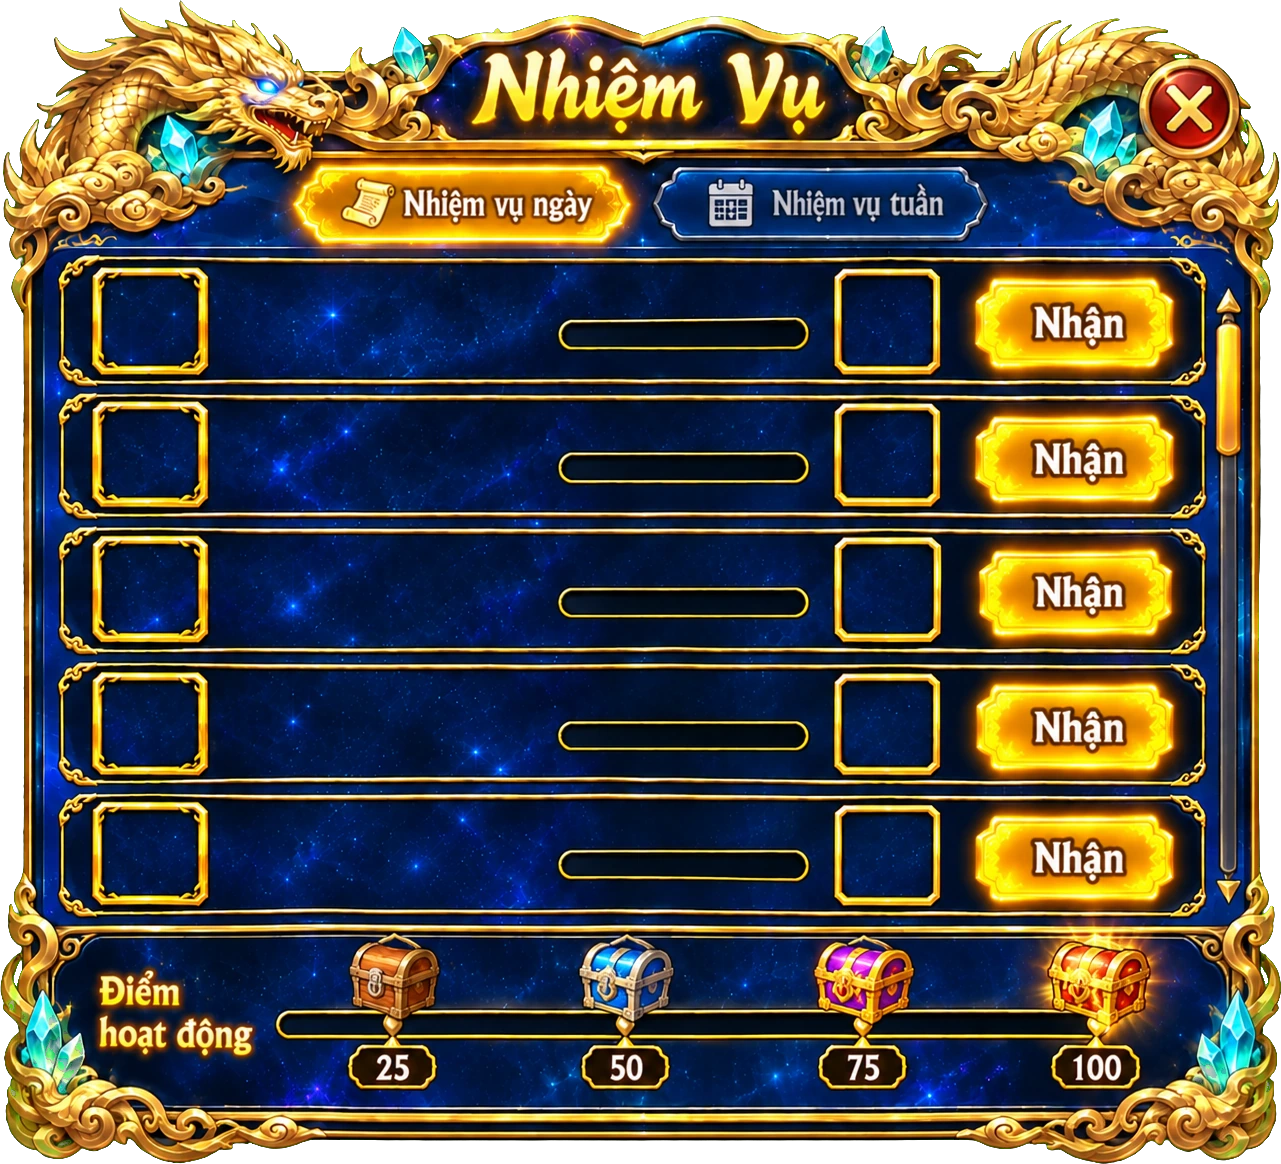
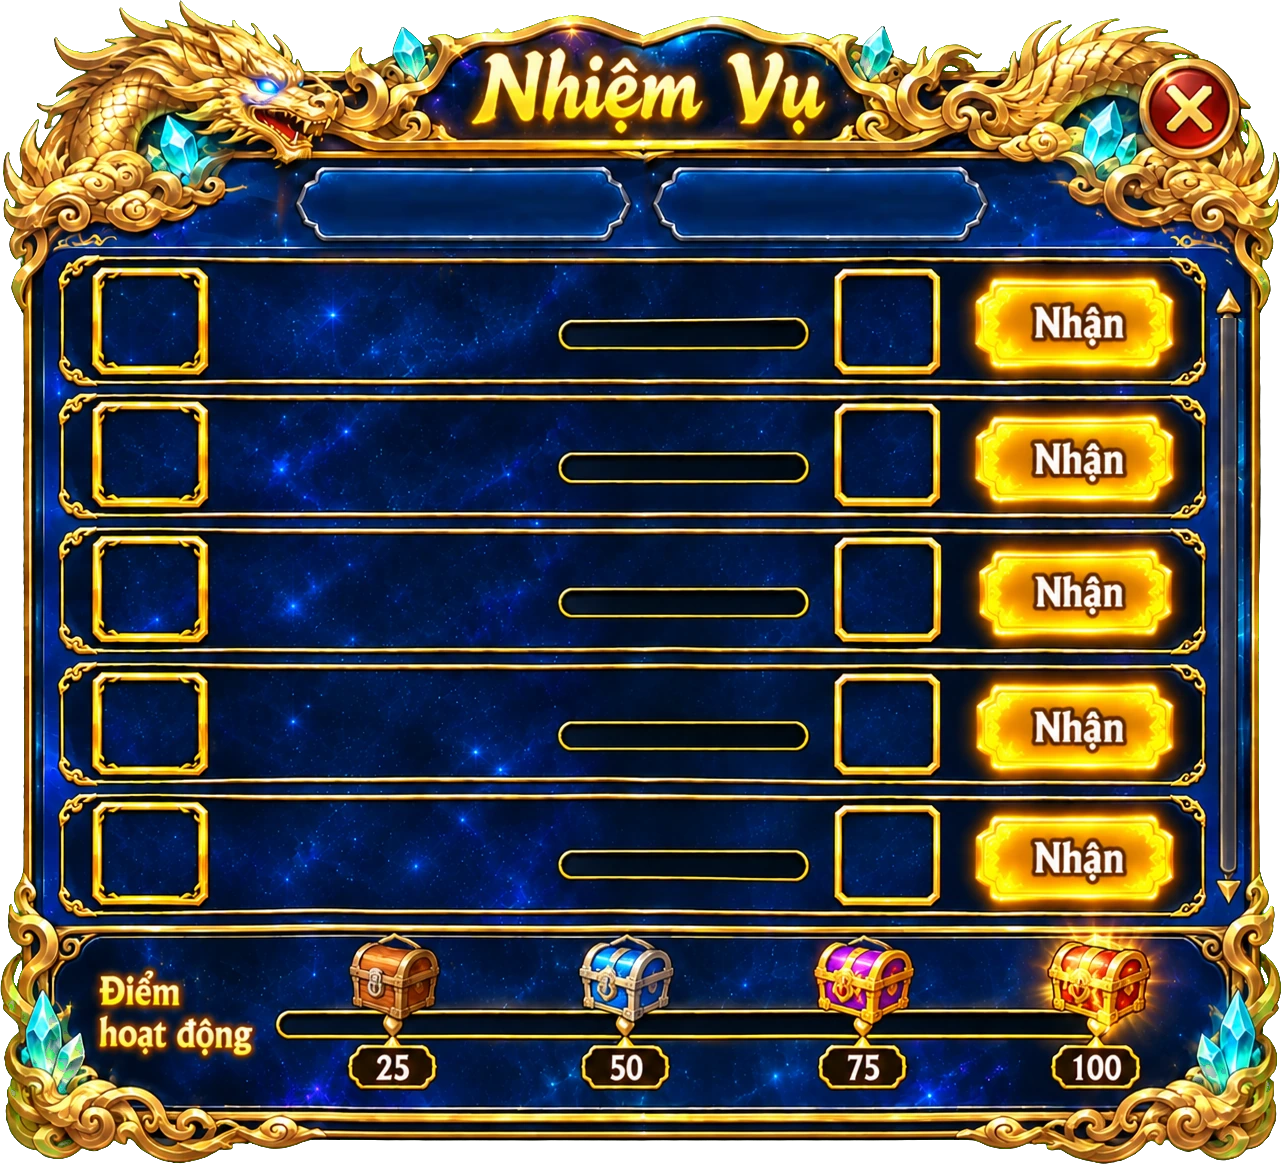
Nhiem vu: 2 tab doi sang qua lai, danh sach hang cuon + thanh cuon that (tab ngay 5 hang, tab tuan 10 hang)

Changed region(s): [[0.2186, 0.1237, 0.7494, 0.2165], [0.9368, 0.2474, 0.9992, 0.4021]]

diff --git a/game-moi/109-nhiem-vu.js b/game-moi/109-nhiem-vu.js
@@ -1,5 +1,7 @@
 /* 109-nhiem-vu.js - BẢNG NHIỆM VỤ (nút "Nhiệm vụ" ở thanh nút, 81-nut-moi.js gọi TTGNHIEMVU.open).
-   BƯỚC 1 (28/11/2026): ĐƯA KHUNG VÀO GAME + RƯƠNG ĐIỂM HOẠT ĐỘNG. CHƯA có danh sách nhiệm vụ (5 hàng trong khung đang trống), chưa có tab Tuần.
+   BƯỚC 1 (28/11/2026): ĐƯA KHUNG VÀO GAME + RƯƠNG ĐIỂM HOẠT ĐỘNG.
+   BƯỚC 2 (28/11/2026): 2 TAB ĐỔI SÁNG QUA LẠI (Nhiệm vụ ngày / Nhiệm vụ tuần) + DANH SÁCH HÀNG CUỘN ĐƯỢC với THANH CUỘN THẬT. Tab Ngày 5 hàng, tab Tuần 10 hàng (CFG.soHang). Các hàng đang TRỐNG (chưa có nội dung nhiệm vụ).
+   ẢNH: khung-nhiem-vu.webp đã xóa chữ + viền sáng của 2 tab (cả hai ở trạng thái tối) và xóa thanh trượt vẽ sẵn. nhiem-vu-tab-sang.webp = tab SÁNG (phủ lên tab đang chọn); nhiem-vu-ic-ngay/tuan.webp = icon cuộn giấy / lịch; nhãn tab là CHỮ thật vẽ bằng CSS (đổi màu theo trạng thái); nhiem-vu-hang.webp = 1 hàng nhiệm vụ (nhân bản thành danh sách, cao 136px ảnh).
    ẢNH: game-moi/khung-nhiem-vu.webp = khung trống đã tách nền xanh (1281x1164). Tiêu đề, nút X, 2 tab, 5 hàng, 4 rương + mốc 25/50/75/100 vẽ sẵn trong ảnh.
         Mọi tọa độ ở khối BOX, tính theo pixel ảnh khung (SW x SH).
    RƯƠNG HOẠT ĐỘNG: 4 rương ở mốc CFG.moc = [25,50,75,100]. Đủ điểm -> chạm rương để nhận (chạm khi chưa đủ: báo "Cần X điểm hoạt động").
@@ -10,13 +12,20 @@
    Đóng: nút X, chạm ngoài khung, Esc. */
 (function(){
 'use strict';
-var SW=1281,SH=1164,V='?v=1',IMG='game-moi/khung-nhiem-vu.webp'+V;
+var SW=1281,SH=1164,V='?v=2',D='game-moi/',IMG=D+'khung-nhiem-vu.webp'+V,SANG=D+'nhiem-vu-tab-sang.webp'+V,ICN=D+'nhiem-vu-ic-ngay.webp'+V,ICT=D+'nhiem-vu-ic-tuan.webp'+V,HANG=D+'nhiem-vu-hang.webp'+V;
 var CFG={
   key:'ttg_moi_nhiemvu',
   moc:[25,50,75,100],
+  soHang:{ngay:5,tuan:10},   /* số hàng mỗi tab; sau này thay bằng danh sách nhiệm vụ thật */
   thuong:[null,null,null,null]   /* thuong[i]=function(i){...} chạy khi nhận rương i (0..3); sau này nối phần thưởng thật */
 };
 var BOX={
+  sang:{ngay:{x:294,y:166,w:337,h:79},tuan:{x:650,y:166,w:337,h:79}},   /* sprite tab sáng phủ lên tab đang chọn */
+  icNgay:{x:338,y:172,w:62,h:64},icTuan:{x:700,y:174,w:58,h:60},
+  txNgay:{x:400,y:179,w:196,h:52},txTuan:{x:770,y:179,w:178,h:52},
+  list:{x:50,y:256,w:1160,h:654,rowH:136},                          /* vùng danh sách cuộn */
+  track:{x:1215,y0:316,y1:868,w:26,min:64},                         /* thanh cuộn: x/bề rộng thanh trượt, y0..y1 = đoạn chạy */
+  up:{x:1214,y:284,w:30,h:30},down:{x:1214,y:876,w:30,h:30},         /* mũi tên trên / dưới */
   close:{x:1137,y:58,w:104,h:104},
   tabNgay:{x:296,y:168,w:333,h:75},
   tabTuan:{x:652,y:168,w:334,h:75},
@@ -25,7 +34,7 @@ var BOX={
   stamp:{cy:974,w:142,h:48},                      /* chữ Đã nhận đè lên thân rương */
   bar:{x:283,y:1016,h:14,xs:[283,394,626,864,1099]}  /* thanh điểm: đầu thanh rồi tới tâm 4 rương (chạy từng đoạn) */
 };
-var root,fr,E={},isOpen=false,openAt=0,S={diem:0,nhan:[0,0,0,0]};
+var root,fr,E={},isOpen=false,openAt=0,tab='ngay',S={diem:0,nhan:[0,0,0,0]};
 
 function load(){try{var j=JSON.parse(localStorage.getItem(CFG.key)||'null');if(j&&typeof j.diem==='number'){S.diem=Math.max(0,Math.min(100,j.diem));S.nhan=[0,1,2,3].map(function(i){return j.nhan&&j.nhan[i]?1:0;});}}catch(e){}}
 function save(){try{localStorage.setItem(CFG.key,JSON.stringify(S));}catch(e){}}
@@ -40,7 +49,21 @@ var css=[
 '.nv-x,.nv-tab{padding:0;border:0;background:transparent;cursor:pointer;touch-action:manipulation}',
 '.nv-x{border-radius:50%}',
 '.nv-x:active{box-shadow:0 0 calc(var(--u)*24) rgba(255,224,102,.85),inset 0 0 calc(var(--u)*24) rgba(255,224,102,.35)}',
-'.nv-tab:active{background:rgba(255,200,80,.14);border-radius:calc(var(--u)*18)}',
+'.nv-tab:active{background:rgba(255,200,80,.12);border-radius:calc(var(--u)*18)}',
+/* tab sáng + nhãn */
+'.nv-sang{pointer-events:none;background:url('+SANG+') 0 0/100% 100% no-repeat;opacity:0;transition:opacity .2s}',
+'.nv-sang.on{opacity:1}',
+'.nv-ic{pointer-events:none;background:no-repeat center/100% 100%}',
+'.nv-tx{pointer-events:none;display:flex;align-items:center;justify-content:center;font-weight:800;font-size:calc(var(--u)*33);line-height:1;white-space:nowrap;overflow:hidden;color:#c6ccdb;text-shadow:0 0 calc(var(--u)*4) #0a1638,calc(var(--u)*2) calc(var(--u)*2) 0 #0a1638,calc(var(--u)*-2) calc(var(--u)*2) 0 #0a1638,calc(var(--u)*2) calc(var(--u)*-2) 0 #0a1638,calc(var(--u)*-2) calc(var(--u)*-2) 0 #0a1638;transition:color .2s}',
+'.nv-tx.on{color:#fff3d4;text-shadow:0 0 calc(var(--u)*4) #4a2400,calc(var(--u)*2) calc(var(--u)*2) 0 #4a2400,calc(var(--u)*-2) calc(var(--u)*2) 0 #4a2400,calc(var(--u)*2) calc(var(--u)*-2) 0 #4a2400,calc(var(--u)*-2) calc(var(--u)*-2) 0 #4a2400}',
+/* danh sách cuộn (thanh cuộn hệ thống ẩn, dùng thanh vẽ riêng) */
+'.nv-ls{overflow-y:scroll;overflow-x:hidden;overscroll-behavior:contain;touch-action:pan-y;-webkit-overflow-scrolling:touch;scrollbar-width:none}',
+'.nv-ls::-webkit-scrollbar{display:none}',
+'.nv-h{width:100%;height:calc(var(--u)*'+BOX.list.rowH+');background:url('+HANG+') 0 0/100% 100% no-repeat}',
+'.nv-th{border-radius:calc(var(--u)*13);border:calc(var(--u)*2) solid #3a1c04;background:linear-gradient(90deg,#c25a02 0,#ffb81e 22%,#fff45c 40%,#ffc02a 62%,#e8820a 86%,#8a3402 100%);box-shadow:0 0 calc(var(--u)*6) rgba(255,190,60,.55);cursor:grab;touch-action:none}',
+'.nv-th:active{cursor:grabbing;filter:brightness(1.12)}',
+'.nv-tk,.nv-ar{padding:0;border:0;background:transparent;cursor:pointer;touch-action:manipulation}',
+'.nv-ar:active{background:rgba(255,220,110,.28);border-radius:calc(var(--u)*8)}',
 /* thanh điểm hoạt động (nằm dưới rương, trên nền thanh vẽ sẵn) */
 '.nv-bar{pointer-events:none;border-radius:calc(var(--u)*8);background:linear-gradient(180deg,#fff3a8,#ffc83a 50%,#e08a12);box-shadow:0 0 calc(var(--u)*8) rgba(255,210,80,.7);transition:width .35s ease}',
 /* vùng chạm rương */
@@ -54,13 +77,31 @@ var css=[
 '.nv-dim.on{opacity:1}'
 ].join('\n');
 var stl=document.createElement('style');stl.textContent=css;document.head.appendChild(stl);
-try{(new Image()).src=IMG;}catch(e){}
+[IMG,SANG,ICN,ICT,HANG].forEach(function(u){try{(new Image()).src=u;}catch(e){}});   /* tải trước cho lần mở đầu không nháy */
 
 function pct(v,t){return (v/t*100)+'%';}
 function box(c,b){var s=c.style;s.left=pct(b.x,SW);s.top=pct(b.y,SH);s.width=pct(b.w,SW);s.height=pct(b.h,SH);return c;}
 function mk(tag,cls,b){var c=document.createElement(tag);c.className=cls;if(b)box(c,b);fr.appendChild(c);return c;}
 function unit(){if(fr)fr.style.setProperty('--u',(fr.clientWidth/SW)+'px');}
 
+function fit(el){el.style.fontSize='';var f=33;while(f>14&&el.scrollWidth>el.clientWidth+1){f--;el.style.fontSize='calc(var(--u)*'+f+')';}}
+function fitAll(){if(E.txN){fit(E.txN);fit(E.txT);}}
+/* ===== DANH SÁCH + THANH CUỘN ===== */
+function dsHang(){var n=CFG.soHang[tab]||0,h='',i;for(i=0;i<n;i++)h+='<div class="nv-h" data-i="'+i+'"></div>';E.ls.innerHTML=h;E.ls.scrollTop=0;syncThumb();}
+function maxScroll(){return Math.max(0,E.ls.scrollHeight-E.ls.clientHeight);}
+function syncThumb(){
+  if(!E.th)return;var T=BOX.track,L=T.y1-T.y0,ch=E.ls.clientHeight||1,sh=E.ls.scrollHeight||1,ms=maxScroll();
+  var len=Math.min(L,Math.max(T.min,L*ch/sh)),top=T.y0+(ms?(L-len)*E.ls.scrollTop/ms:0);
+  E.th.style.top=pct(top,SH);E.th.style.height=pct(len,SH);E.th.style.display=ms?'':'none';E.thLen=len;
+}
+function scrollBy(d){E.ls.scrollBy?E.ls.scrollBy({top:d,behavior:'smooth'}):(E.ls.scrollTop+=d);}
+function setTab(t){
+  if(t===tab&&E.ls.childNodes.length)return;
+  tab=t;E.tn.classList.toggle('on',t==='ngay');E.tt.classList.toggle('on',t==='tuan');
+  E.sN.classList.toggle('on',t==='ngay');E.sT.classList.toggle('on',t==='tuan');
+  E.txN.classList.toggle('on',t==='ngay');E.txT.classList.toggle('on',t==='tuan');
+  dsHang();
+}
 function barW(){   /* điểm -> bề rộng thanh (px ảnh), chạy từng đoạn theo vị trí 4 rương */
   var xs=BOX.bar.xs,p=S.diem,m=CFG.moc,i,a=0,x=xs[0];
   for(i=0;i<m.length;i++){var b=m[i];if(p>=b){x=xs[i+1];a=b;}else{x=xs[i]+(xs[i+1]-xs[i])*(p-a)/(b-a);break;}}
@@ -95,24 +136,44 @@ function build(){
     E.r[i].addEventListener('click',function(){nhanRuong(i);});
     E.st[i]=mk('div','nv-st',{x:R.cx-S2.w/2,y:S2.cy-S2.h/2,w:S2.w,h:S2.h});E.st[i].textContent='Đã nhận';
   });
+  /* tab: sprite sáng -> icon -> nhãn -> nút bấm (trong suốt) trên cùng */
+  E.sN=mk('div','nv-sang',BOX.sang.ngay);E.sT=mk('div','nv-sang',BOX.sang.tuan);
+  E.icN=mk('div','nv-ic',BOX.icNgay);E.icN.style.backgroundImage='url('+ICN+')';
+  E.icT=mk('div','nv-ic',BOX.icTuan);E.icT.style.backgroundImage='url('+ICT+')';
+  E.txN=mk('div','nv-tx',BOX.txNgay);E.txN.textContent='Nhiệm vụ ngày';
+  E.txT=mk('div','nv-tx',BOX.txTuan);E.txT.textContent='Nhiệm vụ tuần';
   E.tn=mk('button','nv-tab',BOX.tabNgay);E.tn.type='button';E.tn.setAttribute('aria-label','Nhiệm vụ ngày');
   E.tt=mk('button','nv-tab',BOX.tabTuan);E.tt.type='button';E.tt.setAttribute('aria-label','Nhiệm vụ tuần');
-  E.tt.addEventListener('click',function(){toast('Nhiệm vụ tuần: sắp ra mắt');});
+  E.tn.addEventListener('click',function(){setTab('ngay');});
+  E.tt.addEventListener('click',function(){setTab('tuan');});
+  /* danh sách cuộn + thanh cuộn */
+  E.ls=mk('div','nv-ls',BOX.list);
+  E.ls.addEventListener('scroll',syncThumb);
+  var T=BOX.track;
+  E.tk=mk('button','nv-tk',{x:T.x,y:T.y0,w:T.w,h:T.y1-T.y0});E.tk.type='button';E.tk.setAttribute('aria-label','Thanh cuộn');
+  E.tk.addEventListener('click',function(e){if(e.target!==E.tk)return;var r=E.tk.getBoundingClientRect(),y=e.clientY-r.top,thTop=E.th.getBoundingClientRect().top-r.top;scrollBy((y<thTop?-1:1)*E.ls.clientHeight*.8);});
+  E.th=mk('div','nv-th',{x:T.x,y:T.y0,w:T.w,h:T.min});
+  (function(){var dy=0,st=0,on=false,sc=0;
+    E.th.addEventListener('pointerdown',function(e){on=true;dy=e.clientY;st=E.ls.scrollTop;sc=fr.clientWidth/SW;try{E.th.setPointerCapture(e.pointerId);}catch(_){}e.preventDefault();});
+    E.th.addEventListener('pointermove',function(e){if(!on)return;var L=(T.y1-T.y0)*sc-E.thLen*sc,ms=maxScroll();if(L>0)E.ls.scrollTop=st+(e.clientY-dy)/L*ms;});
+    function up(){on=false;}E.th.addEventListener('pointerup',up);E.th.addEventListener('pointercancel',up);})();
+  E.au=mk('button','nv-ar',BOX.up);E.au.type='button';E.au.setAttribute('aria-label','Cuộn lên');E.au.addEventListener('click',function(){scrollBy(-BOX.list.rowH);});
+  E.ad=mk('button','nv-ar',BOX.down);E.ad.type='button';E.ad.setAttribute('aria-label','Cuộn xuống');E.ad.addEventListener('click',function(){scrollBy(BOX.list.rowH);});
   E.x=mk('button','nv-x',BOX.close);E.x.type='button';E.x.setAttribute('aria-label','Đóng');
   document.body.appendChild(root);
   E.x.addEventListener('click',close);
   root.addEventListener('click',function(e){if(e.target===root&&performance.now()-openAt>400)close();});
   document.addEventListener('keydown',function(e){if(isOpen&&e.key==='Escape')close();});
-  window.addEventListener('resize',unit);
+  window.addEventListener('resize',function(){unit();fitAll();syncThumb();});
 }
 function open(){
   if(!root){load();build();}
-  openAt=performance.now();isOpen=true;root.classList.add('on');unit();render();
+  openAt=performance.now();isOpen=true;root.classList.add('on');unit();render();E.ls.innerHTML='';setTab('ngay');fitAll();syncThumb();
 }
 function close(){if(!root)return;isOpen=false;root.classList.remove('on');}
 
 window.TTGNHIEMVU={
-  open:open,close:close,isOpen:function(){return isOpen;},
+  open:open,close:close,tab:function(t){if(t)setTab(t);return tab;},isOpen:function(){return isOpen;},
   diem:function(){return S.diem;},
   setDiem:function(n){if(!root)load();S.diem=Math.max(0,Math.min(100,+n||0));save();render();return S.diem;},
   congDiem:function(n){return window.TTGNHIEMVU.setDiem(S.diem+(+n||0));},

diff --git a/game-moi/index.html b/game-moi/index.html
@@ -260,7 +260,7 @@ img,canvas,video,svg{-webkit-user-drag:none;user-drag:none}
 <script src="game-moi/75-tien-hoa-thu.js"></script>
 <script src="game-moi/81-nut-moi.js?v=9"></script>
 <script src="game-moi/108-do-giam.js?v=7"></script>
-<script src="game-moi/109-nhiem-vu.js?v=1"></script>
+<script src="game-moi/109-nhiem-vu.js?v=2"></script>
 <script src="game-moi/85-cua-hang.js?v=11"></script>
 <script src="game-moi/103-boss-than-the-gioi.js?v=2"></script>
 <script src="game-moi/104-trung-than.js?v=6"></script>
